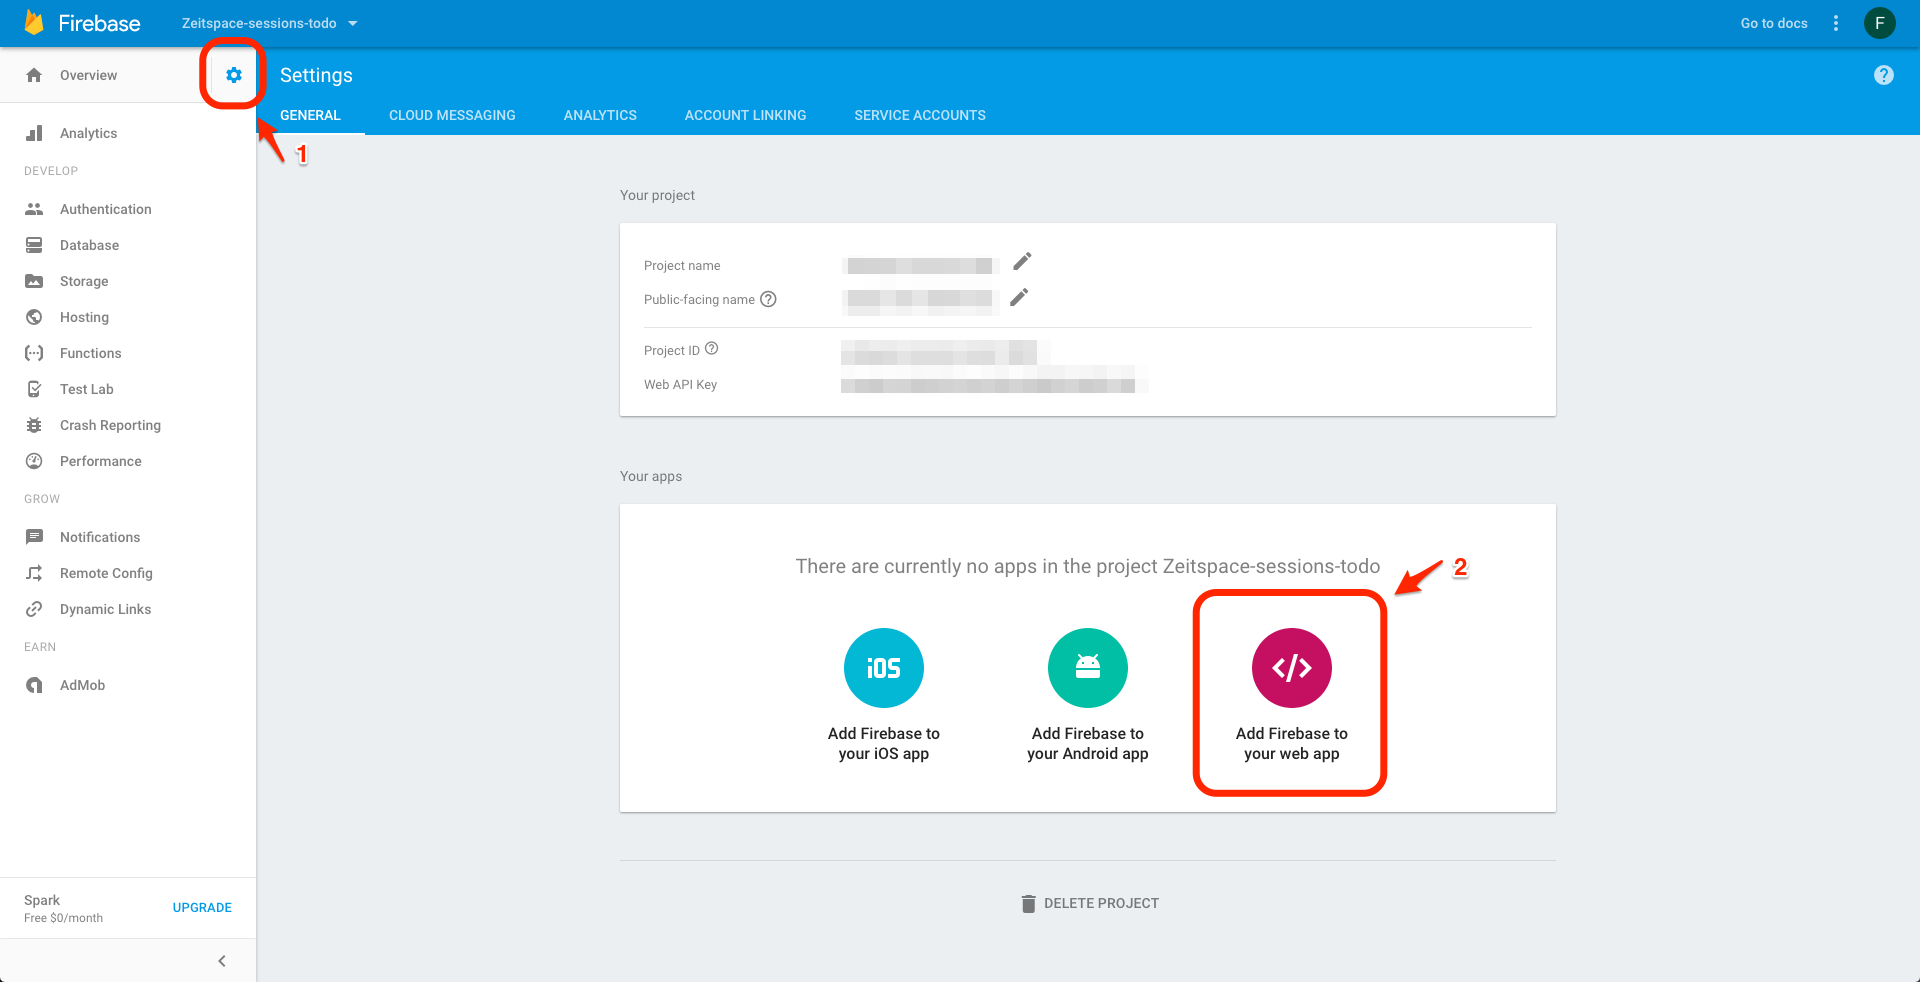
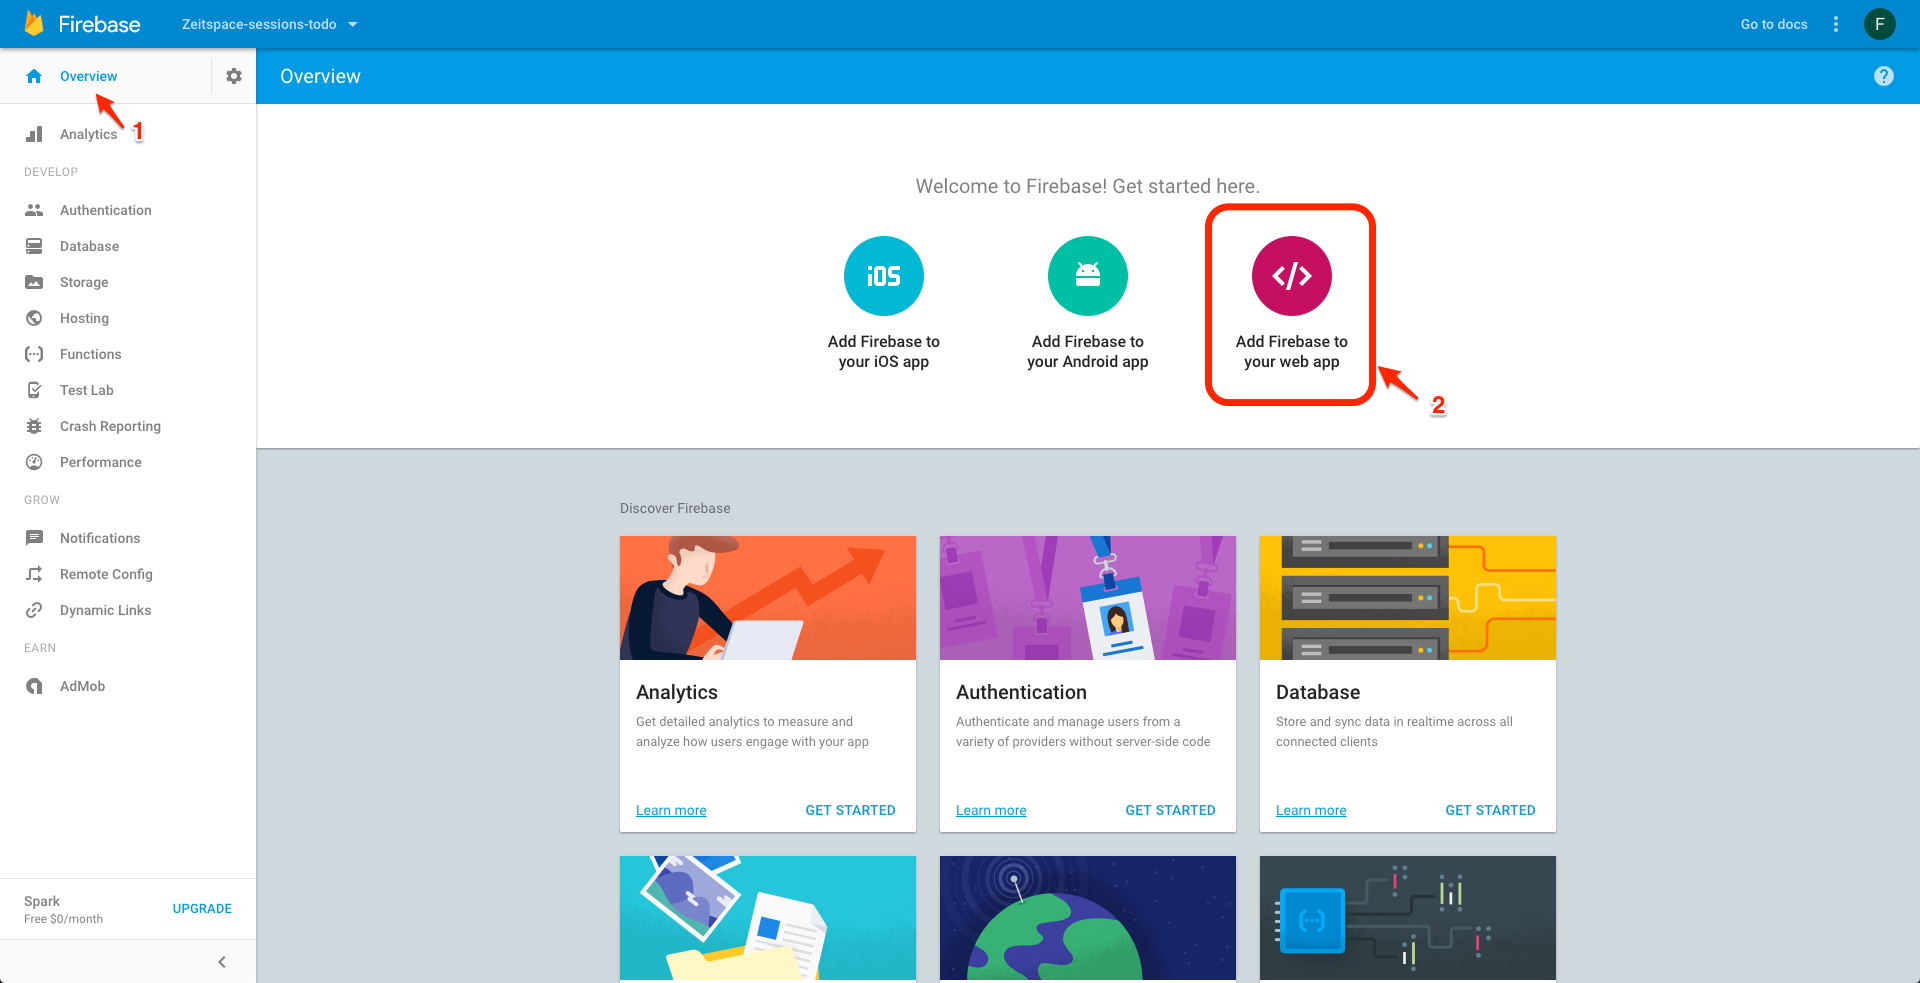
Change setup Firebase Database section, from Settings to Overview page

diff --git a/00-setup.md b/00-setup.md
@@ -67,7 +67,7 @@ The Inline Editor allows you to deploy and edit Firebase Functions from your bro
 - Click on the "View execution logs in the Firebase console" link to open your Firebase page.
 
 ![](screenshots/00-setup/18-firebase-database-setup.markedup.png)
-- Click on the Settings button on the sidebar top
+- Navigate to the Overview page
 - Click on the "Add Firebase to your web app" icon
 
 ![](screenshots/00-setup/19-firebase-database-setup-config.markedup.png)
